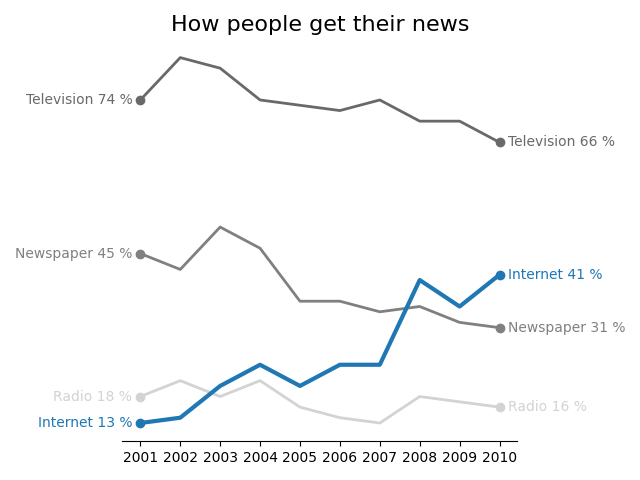
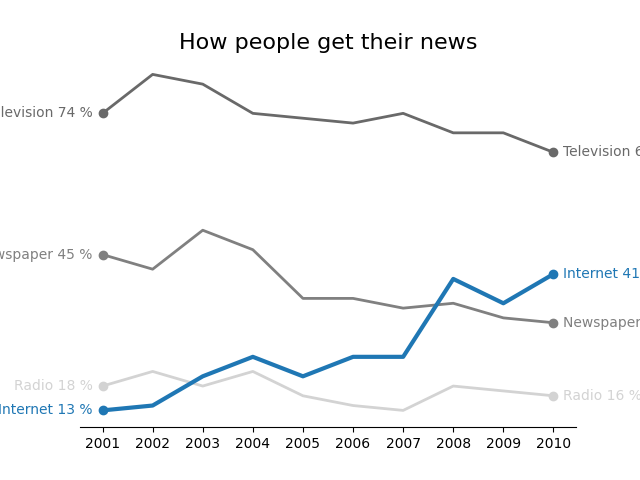
corrección_LAB-07

diff --git a/homework/pregunta_01.py b/homework/pregunta_01.py
@@ -6,6 +6,7 @@ Escriba el codigo que ejecute la accion solicitada en cada pregunta.
 
 import pandas as pd 
 import matplotlib.pyplot as plt
+import os
 
 def pregunta_01():
     """
@@ -92,15 +93,13 @@ def pregunta_01():
             ha='center',
         )
 
-        #El gráfico debe salvarse al archivo `files/plots/news.png`.
-        plt.tight_layout()
-    plt.savefig('files/plots/news.png')
-     
+    output_dir = "files/plots"
+    os.makedirs(output_dir, exist_ok=True)
 
-        
-# Ejecutar la función para generar el gráfico
-if __name__ == "__main__":
-    # Ejecutar la función para generar el gráfico
-    pregunta_01()
+
+    plt.savefig(os.path.join(output_dir, "news.png"))
+    plt.close()
+
+pregunta_01()
     
 
